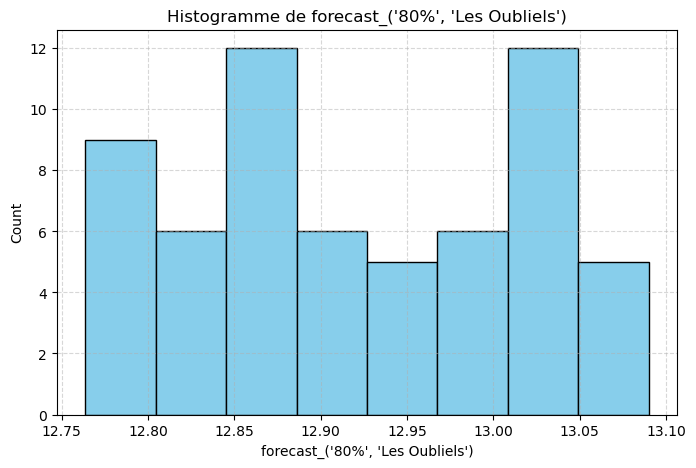
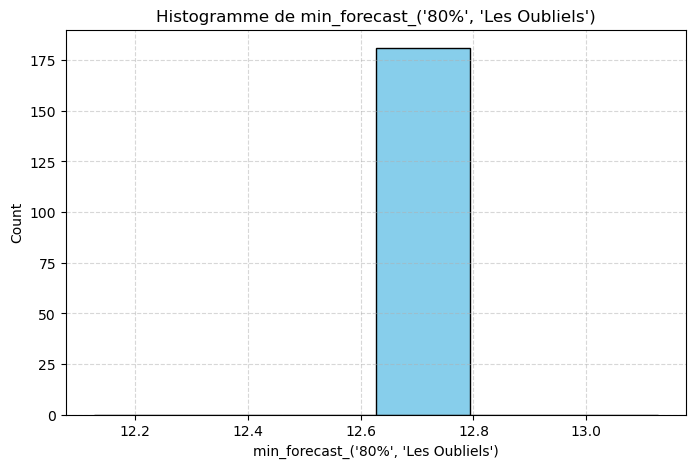
Gestion erreurs stats + nettoyage

diff --git a/statistics.py b/statistics.py
@@ -19,14 +19,20 @@ def mean_value(df):
     for i, col in enumerate(df.columns):
         print(f" [{i}] {col}")
 
-    # --- Choix de la colonne ---
-    try:
-        col_idx = int(input("\nIndex de la colonne pour calculer la moyenne : "))
-    except ValueError:
-        raise ValueError("Veuillez entrer un nombre entier pour la colonne")
-    
-    if col_idx < 0 or col_idx >= len(df.columns):
-        raise IndexError("Index de colonne invalide")
+    # --- Choix de la colonne ---  
+
+    while True:
+        try:
+            col_idx = int(input("\nIndex de la colonne pour calculer la moyenne : "))
+            if col_idx < 0 or col_idx >= len(df.columns):
+                raise IndexError
+            break
+        except ValueError:
+            print("Veuillez entrer un nombre entier.")
+        except IndexError:
+            print("Index de colonne invalide.")
+
+
     
     col_name = df.columns[col_idx]
 
@@ -97,20 +103,25 @@ def moyenne_multimodele(df):
     for i, col in enumerate(df.columns):
         print(f" [{i}] {col}")
 
-    # --- Choix des colonnes ---
-    colonnes_input = input(
-        "Index des colonnes entre lesquelles effectuer une moyenne, séparés par une virgule (ex: 1,2,3) : "
-    )
+    # --- Choix des colonnes ---     
+    while True:
+        try:
+            colonnes_input = input("Index des colonnes entre lesquelles effectuer une moyenne (ex: 1,2,3) : ")
 
-    try:
-        colonnes = sorted(set(int(i.strip()) for i in colonnes_input.split(",")))
-    except ValueError:
-        raise ValueError("Les index doivent être des nombres entiers")
+            colonnes = sorted(set(int(i.strip()) for i in colonnes_input.split(",")))
 
-    for i in colonnes:
-        if i < 0 or i >= len(df.columns):
-            raise IndexError(f"Index invalide : {i}")
+            for i in colonnes:
+                if i < 0 or i >= len(df.columns):
+                    raise IndexError
 
+            break
+
+        except ValueError:
+            print("Les index doivent être des nombres entiers.")
+        except IndexError:
+            print("Un index de colonne est invalide.")
+
+    
     index_colonnes = [df.columns[i] for i in colonnes]
 
     print(f"\n Colonnes sélectionnées : {index_colonnes}")
@@ -140,14 +151,18 @@ def maximum_value(df):
     print("\nColonnes disponibles :")
     for i, col in enumerate(df.columns):
         print(f" [{i}] {col}")
+ 
 
-    try:
-        col_idx = int(input("\nIndex de la colonne pour calculer le maximum : "))
-    except ValueError:
-        raise ValueError("Veuillez entrer un nombre entier pour la colonne")
-
-    if col_idx < 0 or col_idx >= len(df.columns):
-        raise IndexError("Index de colonne invalide")
+    while True:
+        try:
+            col_idx = int(input("\nIndex de la colonne pour calculer le maximum : "))
+            if col_idx < 0 or col_idx >= len(df.columns):
+                raise IndexError
+            break
+        except ValueError:
+            print("Veuillez entrer un nombre entier.")
+        except IndexError:
+            print("Index de colonne invalide.")
 
     col_name = df.columns[col_idx]
     date_col = df.columns[0]
@@ -202,14 +217,18 @@ def minimum_value(df):
     print("\nColonnes disponibles :")
     for i, col in enumerate(df.columns):
         print(f" [{i}] {col}")
+  
 
-    try:
-        col_idx = int(input("\nIndex de la colonne pour calculer le minimum : "))
-    except ValueError:
-        raise ValueError("Veuillez entrer un nombre entier pour la colonne")
-
-    if col_idx < 0 or col_idx >= len(df.columns):
-        raise IndexError("Index de colonne invalide")
+    while True:
+        try:
+            col_idx = int(input("\nIndex de la colonne pour calculer le minimum : "))
+            if col_idx < 0 or col_idx >= len(df.columns):
+                raise IndexError
+            break
+        except ValueError:
+            print("Veuillez entrer un nombre entier.")
+        except IndexError:
+            print("Index de colonne invalide.")
 
     col_name = df.columns[col_idx]
     date_col = df.columns[0]
@@ -260,28 +279,37 @@ def minimum_value(df):
    
 
 
+###############
+
 def percentile(df):
     print("\nColonnes disponibles :")
     for i, col in enumerate(df.columns):
         print(f" [{i}] {col}")
+   
 
-    try:
-        col_idx = int(input("\nIndex de la colonne : "))
-    except ValueError:
-        raise ValueError("Veuillez entrer un nombre entier pour la colonne")
-
-    if col_idx < 0 or col_idx >= len(df.columns):
-        raise IndexError("Index invalide")
+    while True:
+        try:
+            col_idx = int(input("\nIndex de la colonne : "))
+            if col_idx < 0 or col_idx >= len(df.columns):
+                raise IndexError
+            break
+        except ValueError:
+            print("Veuillez entrer un nombre entier.")
+        except IndexError:
+            print("Index de colonne invalide.")
 
     col_name = df.columns[col_idx]
     date_col = df.columns[0]
+   
 
-    try:
-        q = float(input("Percentile souhaité (ex: 0.9 pour 90%) : "))
-        if not 0 < q < 1:
-            raise ValueError
-    except ValueError:
-        raise ValueError("Le percentile doit être un nombre entre 0 et 1")
+    while True:
+        try:
+            q = float(input("Percentile souhaité (ex: 0.9 pour 90%) : "))
+            if not 0 < q < 1:
+                raise ValueError
+            break
+        except ValueError:
+            print("Le percentile doit être un nombre entre 0 et 1.")
 
     df_valid = df[df[col_name].notna()]
 
@@ -329,6 +357,8 @@ def percentile(df):
    
 
 
+##################
+
 def rolling_mean_value(df):
     
     print("\nColonnes disponibles :")
@@ -336,14 +366,17 @@ def rolling_mean_value(df):
         print(f" [{i}] {col}")
 
     # --- Choix de la colonne ---
-    try:
-        col_idx = int(input("\nIndex de la colonne pour la moyenne glissante : "))
-    except ValueError:
-        raise ValueError("Veuillez entrer un nombre entier pour la colonne")
-    
-    if col_idx < 0 or col_idx >= len(df.columns):
-        raise IndexError("Index de colonne invalide")
-    
+    while True:
+        try:
+            col_idx = int(input("\nIndex de la colonne pour la moyenne glissante : "))
+            if col_idx < 0 or col_idx >= len(df.columns):
+                raise IndexError
+            break
+        except ValueError:
+            print("Veuillez entrer un nombre entier.")
+        except IndexError:
+            print("Index de colonne invalide.")
+
     col_name = df.columns[col_idx]
 
     # --- Colonne date (on suppose qu'elle est en 1ère position) ---
@@ -374,14 +407,17 @@ def rolling_mean_value(df):
     if df_period.empty:
         raise ValueError("Aucune donnée disponible sur la période sélectionnée")
 
-    # --- Taille de la fenêtre ---
-    try:
-        window = int(input("\nTaille de la fenêtre pour la moyenne glissante (nombre de lignes) : "))
-    except ValueError:
-        raise ValueError("Veuillez entrer un entier pour la taille de la fenêtre")
+    # --- Taille de la fenêtre ---   
 
-    if window <= 0:
-        raise ValueError("La fenêtre doit être strictement positive")
+    while True:
+        try:
+            window = int(input("\nTaille de la fenêtre pour la moyenne glissante (nombre de lignes) : "))
+            if window <= 0:
+                raise ValueError
+            break
+        except ValueError:
+            print("La fenêtre doit être un entier strictement positif.")
+            
 
     # --- Calcul moyenne glissante ---
     try:
@@ -415,5 +451,3 @@ def rolling_mean_value(df):
 
     return df
 
-def nombre_ocurrences_au_dessus_seuil(df):
-    return df 

diff --git a/visualization.py b/visualization.py
@@ -371,70 +371,6 @@ def scatter_chart(df):
 
 
 # ---------------- Radar Chart ----------------
-'''
-def radar_chart(df):
-    print("\nColonnes disponibles :")
-    for i, col in enumerate(df.columns):
-        print(f" [{i}] {col}")
-
-    # --- Choix de la colonne catégorie ---
-    try:
-        cat_idx = int(input("\nIndex de la colonne catégories (axes du radar) : "))
-    except ValueError:
-        raise ValueError("Veuillez entrer un nombre entier")
-
-    if cat_idx < 0 or cat_idx >= len(df.columns):
-        raise IndexError("Index de colonne catégorie invalide")
-
-    category_col = df.columns[cat_idx]
-
-    # --- Choix des colonnes de valeurs ---
-    value_idx_input = input(
-        "Index des colonnes de valeurs (séparés par une virgule, ex: 1,2) : "
-    )
-
-    try:
-        value_idx = sorted(
-            set(int(i.strip()) for i in value_idx_input.split(","))
-        )
-    except ValueError:
-        raise ValueError("Les index doivent être des nombres entiers")
-
-    if cat_idx in value_idx:
-        raise ValueError("La colonne catégorie ne peut pas être une colonne de valeurs")
-
-    for i in value_idx:
-        if i < 0 or i >= len(df.columns):
-            raise IndexError(f"Index invalide : {i}")
-
-    value_cols = [df.columns[i] for i in value_idx]
-
-    # --- Préparation du radar ---
-    categories = df[category_col].astype(str).values
-    N = len(categories)
-
-    angles = np.linspace(0, 2 * np.pi, N, endpoint=False).tolist()
-    angles += angles[:1]
-
-    fig, ax = plt.subplots(figsize=(7,7), subplot_kw=dict(polar=True))
-    colors = cm.viridis(np.linspace(0, 1, len(value_cols)))
-
-    for i, col in enumerate(value_cols):
-        values = df[col].astype(float).values.tolist()
-        values += values[:1]
-
-        ax.plot(angles, values, linewidth=2, label=col, color=colors[i])
-        ax.fill(angles, values, alpha=0.25, color=colors[i])
-
-    ax.set_xticks(angles[:-1])
-    ax.set_xticklabels(categories)
-    ax.set_title("Radar Chart", y=1.08)
-    ax.legend(loc="upper right", bbox_to_anchor=(1.3, 1.1))
-    ax.grid(True)
-
-    plt.show()# a voir si on laisse cette ligne
-
-'''
 
 def radar_chart(df):
 
@@ -578,44 +514,6 @@ def radar_chart(df):
     return fig
 
 # ---------------- Histogram Chart ----------------
-'''
-def histogram_chart(df):
-    print("\nColonnes disponibles :")
-    for i, col in enumerate(df.columns):
-        print(f" [{i}] {col}")
-
-    # --- Choix de la colonne ---
-    try:
-        col_idx = int(input("\nIndex de la colonne à afficher en histogramme : "))
-    except ValueError:
-        raise ValueError("Veuillez entrer un nombre entier pour la colonne")
-    
-    if col_idx < 0 or col_idx >= len(df.columns):
-        raise IndexError("Index de colonne invalide")
-    
-    col_name = df.columns[col_idx]
-
-    # --- Choix du nombre de bins ---
-    try:
-        bins = int(input("Nombre de bins pour l'histogramme : "))
-    except ValueError:
-        raise ValueError("Veuillez entrer un nombre entier pour le nombre de bins")
-    
-    if bins <= 0:
-        raise ValueError("Le nombre de bins doit être supérieur à 0")
-
-    # --- Création de l'histogramme ---
-    fig, ax = plt.subplots(figsize=(8,5))
-    values = df[col_name].astype(float)
-    
-    ax.hist(values, bins=bins, color='skyblue', edgecolor='black')
-    ax.set_title(f"Histogram of {col_name}")
-    ax.set_xlabel(col_name)
-    ax.set_ylabel("Count")
-    ax.grid(True, linestyle='--', linewidth=0.5, alpha=0.5)
-
-    return fig  # retourne la figure pour sauvegarder
-'''
 
 def histogram_chart(df):
     #version choix période

diff --git a/main.py b/main.py
@@ -46,15 +46,14 @@ menu = {
     5: histogram_chart
 }
 
-dict_stats={"mean":1,"max":2,"min":3, "percentile":4, "nombre d'occurences au dessus d'un seuil":5, "moyenne multimodele":6, "moyenne glissante":7}
+dict_stats={"mean":1,"max":2,"min":3, "percentile":4, "moyenne multimodele":5, "moyenne glissante":6}
 menu_stats = {
     1: mean_value,
     2: maximum_value,
     3: minimum_value,
     4: percentile,
-    5: nombre_ocurrences_au_dessus_seuil,
-    6: moyenne_multimodele,
-    7: rolling_mean_value
+    5: moyenne_multimodele,
+    6: rolling_mean_value
 }
 
 # Indicator selection dictionaries
